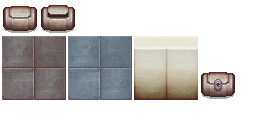
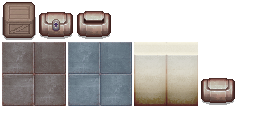
Stuff

diff --git a/UltimateRoguelike/core/src/gurbx/ultimateroguelike/screens/GameScreen.java b/UltimateRoguelike/core/src/gurbx/ultimateroguelike/screens/GameScreen.java
@@ -1,5 +1,7 @@
 package gurbx.ultimateroguelike.screens;
 
+import com.badlogic.ashley.core.Component;
+import com.badlogic.ashley.core.Entity;
 import com.badlogic.ashley.core.PooledEngine;
 import com.badlogic.gdx.Gdx;
 import com.badlogic.gdx.Screen;
@@ -7,6 +9,7 @@ import com.badlogic.gdx.graphics.g2d.TextureAtlas;
 import com.badlogic.gdx.math.Vector2;
 import com.badlogic.gdx.physics.box2d.Box2D;
 import com.badlogic.gdx.physics.box2d.World;
+import com.badlogic.gdx.utils.Disposable;
 
 import box2dLight.RayHandler;
 import gurbx.ultimateroguelike.Application;
@@ -105,7 +108,6 @@ public class GameScreen implements Screen {
 	@Override
 	public void pause() {
 		// TODO Auto-generated method stub
-		
 	}
 
 	@Override
@@ -125,6 +127,13 @@ public class GameScreen implements Screen {
 		if (debugSystem!= null) debugSystem.dispose();
 		if (lightSystem != null) lightSystem.dispose();
 		rayHandler.dispose();
+		
+		//Dispose disposable components
+//		for (Entity e : engine.getEntities()) {
+//			for (Component c : e.getComponents()) {
+//				if (c instanceof Disposable) ((Disposable) c).dispose();
+//			}
+//		}
 	}
 
 }

diff --git a/UltimateRoguelike/core/src/gurbx/ultimateroguelike/systems/LightSystem.java b/UltimateRoguelike/core/src/gurbx/ultimateroguelike/systems/LightSystem.java
@@ -1,17 +1,27 @@
 package gurbx.ultimateroguelike.systems;
 
+import java.util.Iterator;
+
+import com.badlogic.ashley.core.Entity;
 import com.badlogic.ashley.core.EntitySystem;
+import com.badlogic.ashley.core.Family;
+import com.badlogic.ashley.utils.ImmutableArray;
 import com.badlogic.gdx.graphics.OrthographicCamera;
 import com.badlogic.gdx.physics.box2d.World;
 import com.badlogic.gdx.utils.Disposable;
 
 import box2dLight.RayHandler;
+import gurbx.ultimateroguelike.components.BodyComponent;
+import gurbx.ultimateroguelike.components.LightComponent;
+import gurbx.ultimateroguelike.components.MovementComponent;
 import gurbx.ultimateroguelike.utils.Constants;
 
 public class LightSystem extends EntitySystem implements Disposable {
 	private World world;
 	private RayHandler rayHandler;
 	private OrthographicCamera camera;
+	
+	
 	
 	public LightSystem(RayHandler rayHandler, OrthographicCamera camera) {
 		this.rayHandler = rayHandler;

diff --git a/UltimateRoguelike/core/src/gurbx/ultimateroguelike/components/LightComponent.java b/UltimateRoguelike/core/src/gurbx/ultimateroguelike/components/LightComponent.java
@@ -2,11 +2,17 @@ package gurbx.ultimateroguelike.components;
 
 import com.badlogic.ashley.core.Component;
 import com.badlogic.ashley.core.ComponentMapper;
+import com.badlogic.gdx.utils.Disposable;
 
 import box2dLight.Light;
 
-public class LightComponent implements Component {
+public class LightComponent implements Component, Disposable {
 	public static final ComponentMapper<LightComponent> MAPPER = ComponentMapper.getFor(LightComponent.class);
 	public Light light;
+	
+	@Override
+	public void dispose() {
+		light.dispose();
+	}
 	
 }

diff --git a/UltimateRoguelike/core/src/gurbx/ultimateroguelike/factories/PlayerFactory.java b/UltimateRoguelike/core/src/gurbx/ultimateroguelike/factories/PlayerFactory.java
@@ -50,7 +50,8 @@ public class PlayerFactory {
 		lightComponent.light = new PointLight(rayHandler, 64);
 		lightComponent.light.attachToBody(bodyComponent.body);
 		lightComponent.light.setColor(1f, 0.6f, 0.6f, 0.8f);
-		lightComponent.light.setDistance(6f);
+		lightComponent.light.setDistance(14f);
+		entity.add(lightComponent);
 		
 		MovementComponent mc = new MovementComponent();
 		mc.acceleration = 10;

diff --git a/UltimateRoguelike/core/src/gurbx/ultimateroguelike/factories/PropFactory.java b/UltimateRoguelike/core/src/gurbx/ultimateroguelike/factories/PropFactory.java
@@ -17,7 +17,7 @@ public class PropFactory {
 		e.add(tfc);
 		
 		TextureComponent tc = new TextureComponent();
-		tc.region = atlas.findRegion("chest3");
+		tc.region = atlas.findRegion("crate");
 		e.add(tc);
 		
 		return e;
